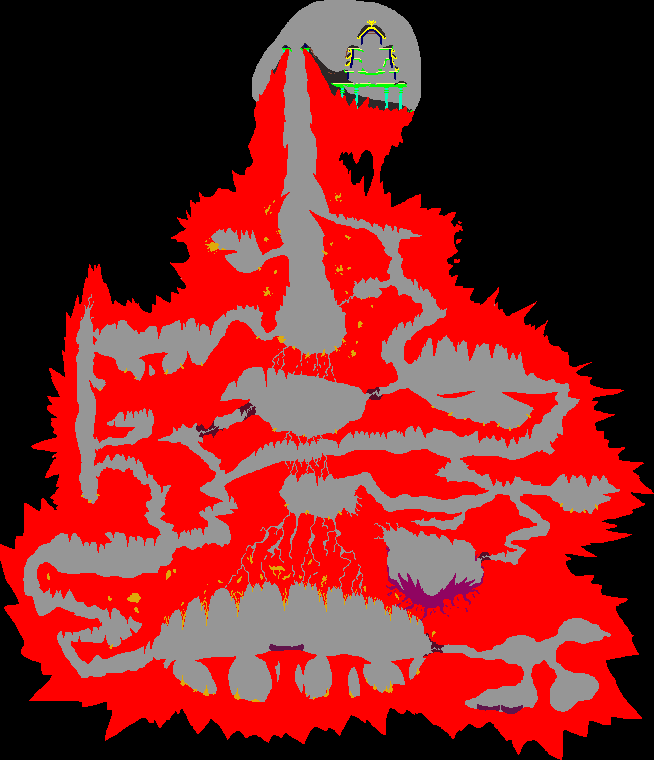
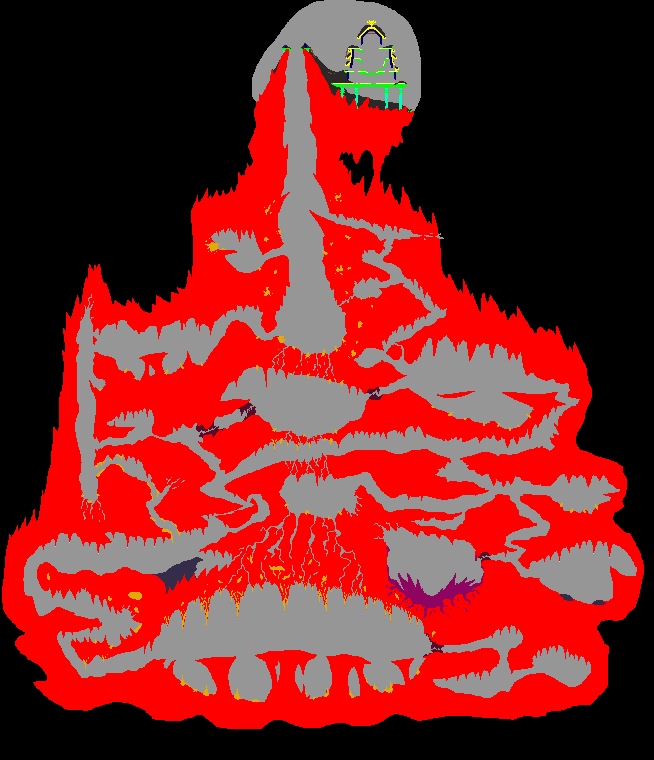
Volcano gen changes
Too lazy to list

diff --git a/Worldgen/DragonHoardGen.cs b/Worldgen/DragonHoardGen.cs
@@ -164,6 +164,9 @@ namespace MultidimensionMod.Worldgen
                 [new Color(144, 4, 97)] = ModContent.TileType<AwakenedRockPlaced>(), //Akuma room block
                 [new Color(97, 20, 75)] = ModContent.TileType<VolcanicRockDensePlaced>(), //Broodmother and Ashe nests. Later replaced with the Nest Block
                 [new Color(223, 170, 10)] = ModContent.TileType<IncineriteOre>(), // Ore scattered around
+                [new Color(52, 44, 73)] = TileID.Obsidian, //Obsidian in lower section
+                [new Color(96, 255, 248)] = TileID.WaterDrip, // Water dropper
+                [new Color(240, 104, 14)] = TileID.LavaDrip, // Lava dropper
                 //Pagoda
                 [new Color(1, 0, 101)] = ModContent.TileType<PagodaBrickPlaced>(), //Pagoda tiles
                 [new Color(0, 255, 0)] = ModContent.TileType<PagodaBrickPlaced>(), //Pagoda Floor.

diff --git a/Items/Placeables/Biomes/ShroomForest/SporeStoneWall.cs b/Items/Placeables/Biomes/ShroomForest/SporeStoneWall.cs
@@ -1,0 +1,30 @@
+using Terraria.ID;
+using Terraria.ModLoader;
+
+namespace MultidimensionMod.Items.Placeables.Biomes.ShroomForest
+{
+    public class SporeStoneWall : ModItem
+    {
+        public override void SetDefaults()
+        {
+            Item.width = 16;
+            Item.height = 16;
+            Item.maxStack = 9999;
+            Item.useTurn = true;
+            Item.autoReuse = true;
+            Item.useAnimation = 15;
+            Item.useTime = 10;
+            Item.useStyle = 1;
+            Item.consumable = true;
+            Item.createWall = ModContent.WallType<Walls.SporeStoneWallPlaced>();
+        }
+
+        public override void AddRecipes()
+        {
+            CreateRecipe(4)
+            .AddIngredient(ModContent.ItemType<SporeStone>())
+            .AddTile(TileID.WorkBenches)
+            .Register();
+        }
+    }
+}

diff --git a/Worldgen/HydraBiome.cs b/Worldgen/HydraBiome.cs
@@ -277,8 +277,8 @@ namespace MultidimensionMod.Worldgen
                             WorldGen.PlaceTile(i, j, ModContent.TileType<BogwoodPlatformPlaced>(), true, false, -1, 0);
                             break;
                     }
-                    if (WorldGen.genRand.NextBool(3))
-                        WorldGen.PlacePot(i, j - 1);
+                    /*if (WorldGen.genRand.NextBool(3)) //keeping this here to remember, in case it's needed
+                        WorldGen.PlacePot(i, j - 1);*/
                 }
             }
         }

diff --git a/Walls/SporeStoneWallPlaced.cs b/Walls/SporeStoneWallPlaced.cs
@@ -1,0 +1,18 @@
+using MultidimensionMod.Dusts;
+using System;
+using Microsoft.Xna.Framework;
+using Terraria;
+using Terraria.ModLoader;
+
+namespace MultidimensionMod.Walls
+{
+    public class SporeStoneWallPlaced : ModWall
+    {
+        public override void SetStaticDefaults()
+        {
+            Main.wallHouse[Type] = false;
+            DustType = ModContent.DustType<MushroomDust>();
+            AddMapEntry(new Color(110, 93, 82));
+        }
+    }
+}
